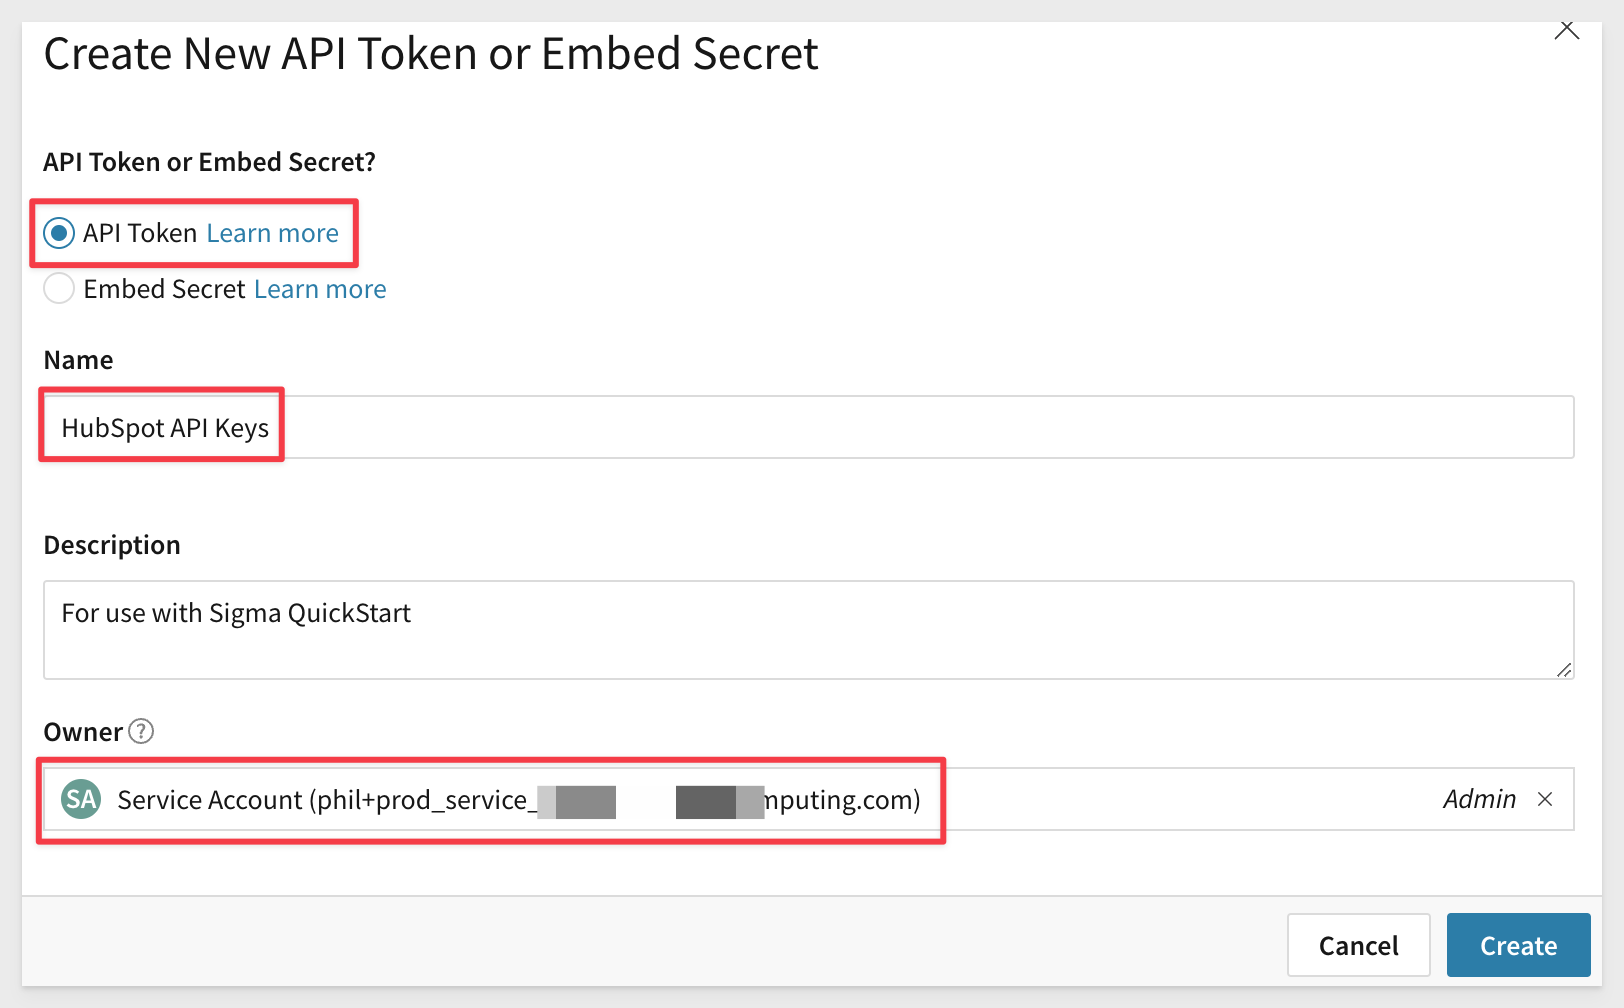
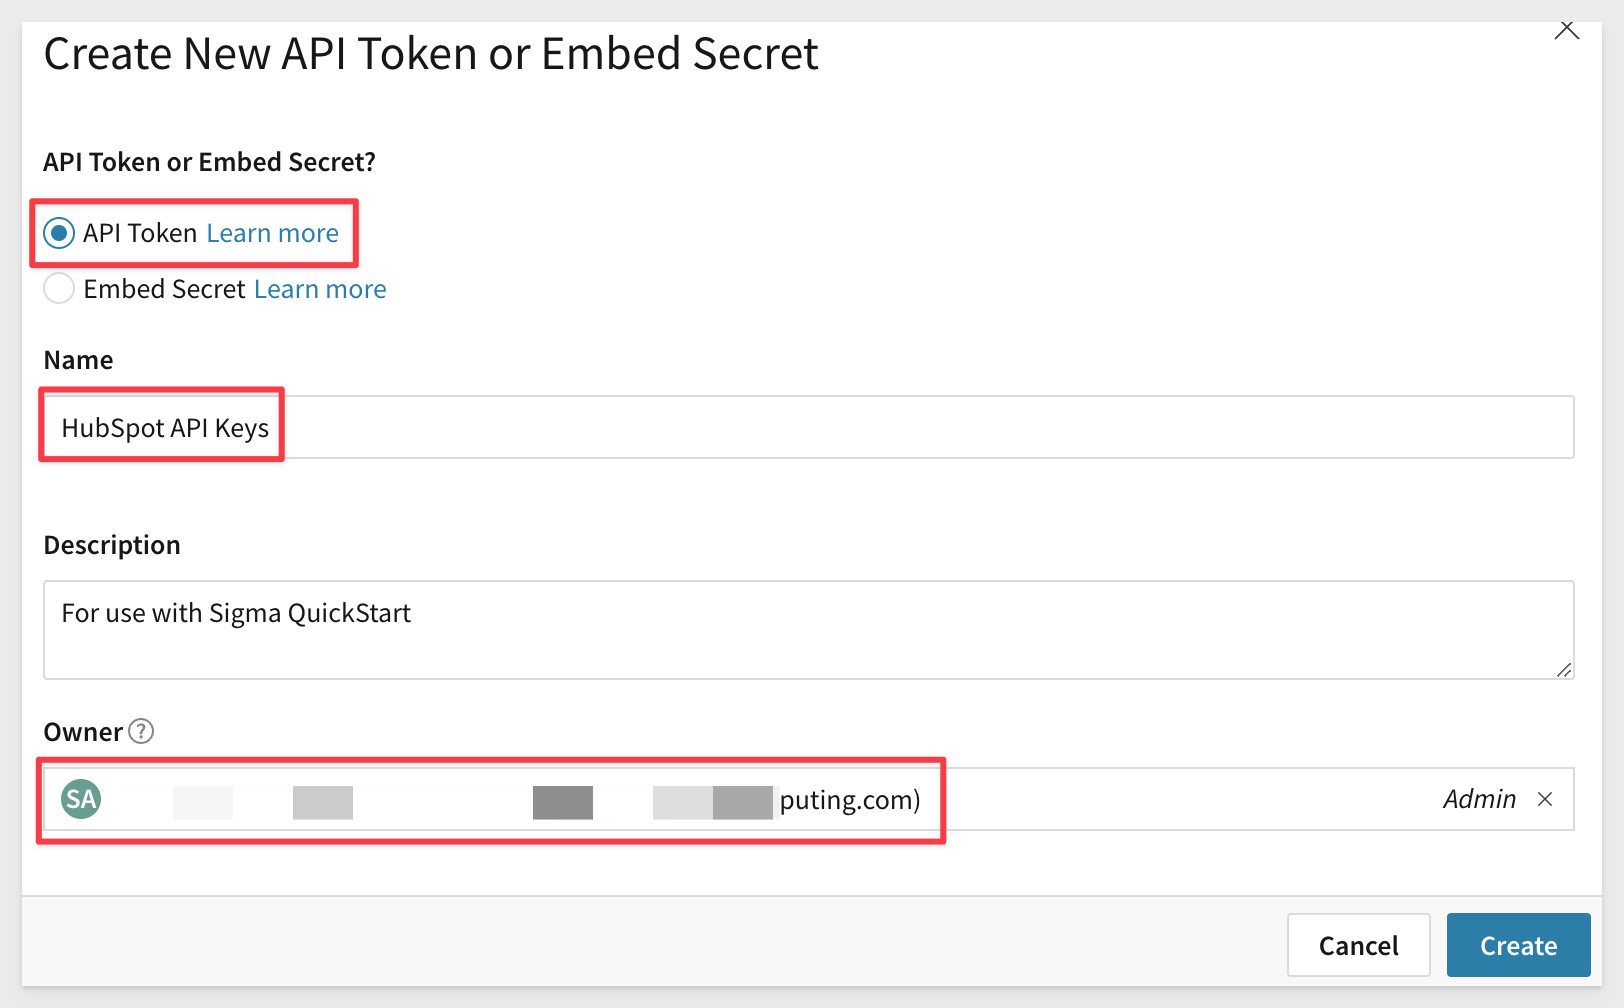
in progress

Changed region(s): [[0.0616, 0.7688, 0.4926, 0.8304]]

diff --git a/site/sigmaguides/src/parnter_hightouch_contact_sync/parnter_hightouch_contact_sync.md b/site/sigmaguides/src/parnter_hightouch_contact_sync/parnter_hightouch_contact_sync.md
@@ -53,6 +53,7 @@ Businesses who need to move data from one place to another while allowing end-us
 
 ### What You’ll Learn
 
+We will connect to data in our warehouse, use Sigma to orient and enrich it, leverage Highspot to copy it from source to HubSpot where we will see our transformed data land. 
 ### What You’ll Build
 
 LUCID CHART HERE.....
@@ -287,7 +288,12 @@ Navigate to `Administration` > `APIs & Embed Secrets` and click `Create New`:
 
 <img src="assets/ht43.png" width="500"/>
 
-Select `API Token`, give it a friendly name, description and assign an `Owner`. For this demonstration, we can just use our own Sigma account. 
+Select `API Token`, give it a friendly name, description and assign an `Owner`. For this demonstration, we need to use our own Sigma account. If we used a different account (ie: a Service Account), we would need to also share the Workbook with that Service Account. 
+
+<aside class="positive">
+<strong>IMPORTANT:</strong><br> This Workbook is explicitly shared with the Sigma user who created it by default. It is best practice to have a Service Account for integration and security autmations. 
+</aside>
+
 
 <aside class="negative">
 <strong>NOTE:</strong><br> In production, it is recommended to assign keys to a dedicated service account as opposed to actual people, who may leave the organization at a later time and causing the keys to become invalid.
@@ -490,10 +496,41 @@ In `Define model` click on the `Sigma model`:
 
 <img src="assets/ht51.png" width="500"/>
 
-Select the workbook, page, and element that contain our `Approved Leads`.
+Select the workbook, page, and element that contain our `Approved Leads` and click `Preview Results`:
 
-NOT WORKING
+<img src="assets/ht52.png" width="500"/>
 
+Click `Continue`.
+
+In `Finalize settings for this model`, provide a name. `Primary Key` (from the inbound data) and a folder to store in (optionally):
+
+<img src="assets/ht53.png" width="500"/>
+
+Click `Finish`.
+
+We are now ready to `Add sync` to perform the job as configured.
+
+<img src="assets/ht54.png" width="500"/>
+
+Select our HubSpot destination we set up earlier:
+
+<img src="assets/ht55.png" width="500"/>
+
+In `Configure sync to HubSpot`, select the following:
+
+<img src="assets/ht56.png" width="500"/>
+
+Scroll down and configure the column to match records on and which columns should be included in the sync and to which columns (mapping) in HubSpot:
+
+<img src="assets/ht57.png" width="500"/>
+
+A cool feature is to `Test` before we continue on. Click `Test`. We can select a row (we only have one) to see what Highspot will be sending to HubSpot. This can be useful when troubleshooting sync issues.
+
+<img src="assets/ht58.png" width="500"/>
+
+If all looks good, click the `Close`.
+
+Click `Continue`.
 
 Before continuing, you must Preview your model to ensure it's querying the data you're interested in. By default, we limit the preview to the first 100 records. Once you've validated your data, click Continue.
 
@@ -503,18 +540,21 @@ Select a Primary key. A primary key should be a column with unique identifiers, 
 
 Click Finish.
 
+In `Finalize settings for this sync`, select `Manual` and click `Finish`. 
 
-### Create Target Destination
+<aside class="negative">
+<strong>NOTE:</strong><br> Hightouch sync schedule options are very flexible to allow many different possibilities including a custom Cron expression.
+</aside>
 
+Click `Run sync`:
 
-### Define Data Sync
+<img src="assets/ht60.png" width="500"/>
 
+The sync is queued for start and once completed we should get a status of `Healthy`:
 
-### Schedule Sync
+<img src="assets/ht61.png" width="500"/>
 
-
-### Run Sync Manually
-
+The last thing we need to do is see the data landed in HubSpot.
 
 ![Footer](assets/sigma_footer.png)
 <!-- END OF SECTION-->
@@ -522,18 +562,18 @@ Click Finish.
 ## HubSpot
 Duration: 20
 
-### Verify data landed
+Log into the HubSpot trial account we created and navigate to  `Contacts`.
 
+There we see the one record we added (Sara Huggins) along with the two default rows provided by the HubSpot trial. 
 
-![Footer](assets/sigma_footer.png)
-<!-- END OF SECTION-->
+There is some refinement we could do to make Sarah's record more complete but hopefully we demonstrated the workflow well enough that it would be easy to take that task on and quickly complete it.
+
+With your contact lists dynamically updating in HubSpot, you can skip the manual labor of updating them every time they change and instead focus on perfecting your campaign.
 
 ## What we've covered
 Duration: 5
 
-In this lab we learned how to.........
-
-INSERT FINAL IMAGE OF BUILD IF APPROPRIATE
+We covered connecting to data in our warehouse, using Sigma to orient and enrich it, leveragd Highspot to copy it from source to HubSpot where we saw our transformed data land. 
 
 <!-- THE FOLLOWING ADDITIONAL RESOURCES IS REQUIRED AS IS FOR ALL QUICKSTARTS -->
 **Additional Resource Links**
